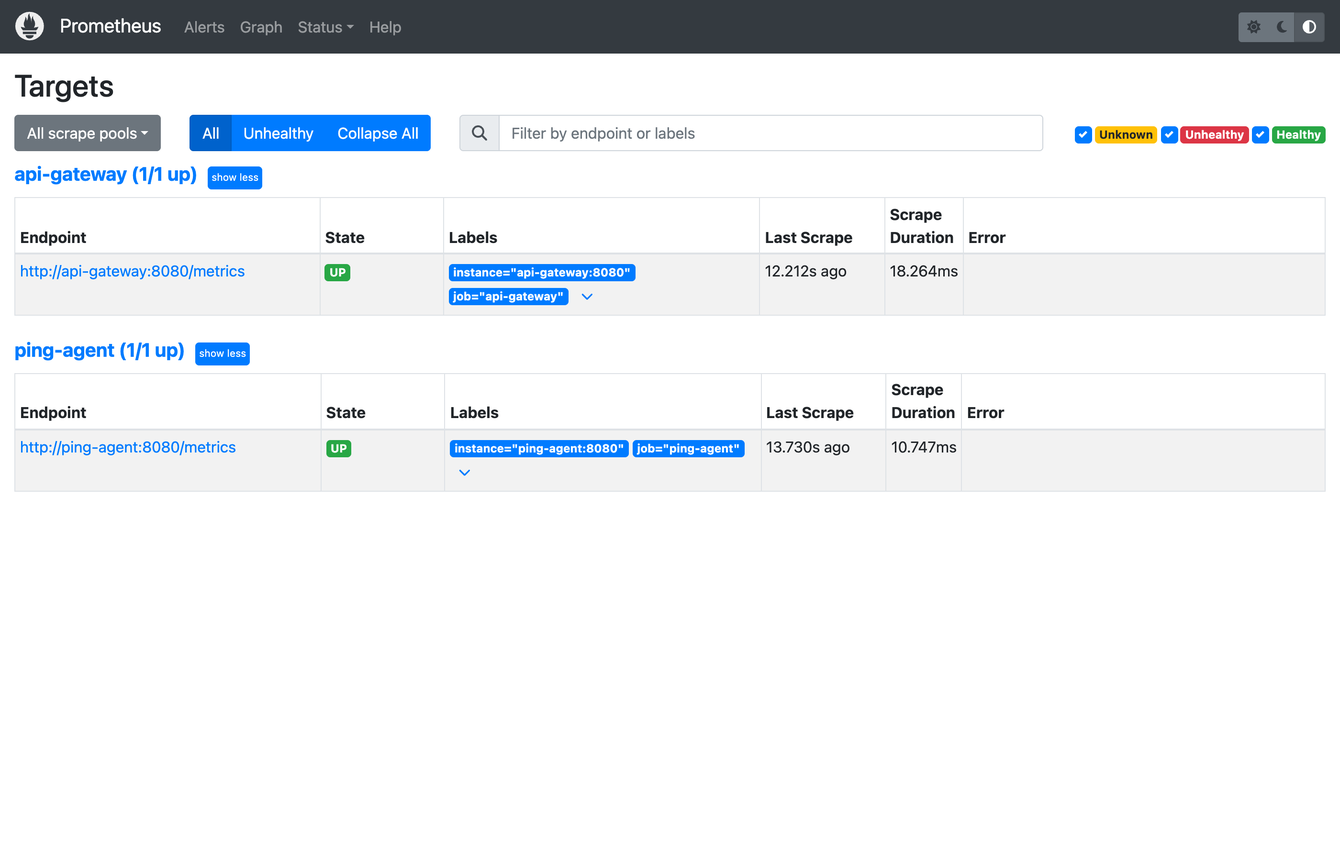
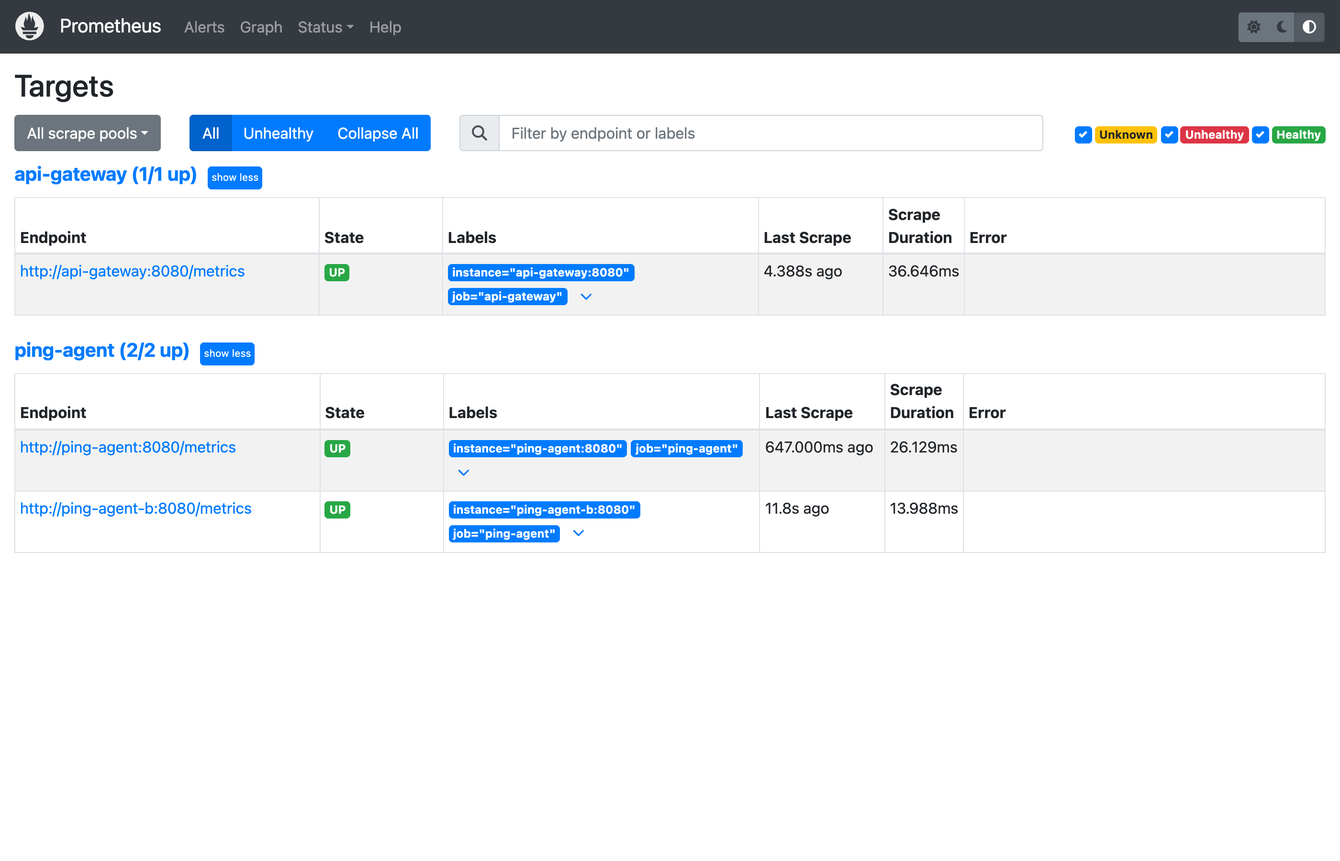
docs: record verified scenarios and recapture screenshots
Each reliability scenario now says what was observed on the two-region
demo stack and which rule or unit test pins it, including the error
budget burn from the flapping target, the regional failure that never
pages, maintenance windows and the heartbeat. The proof checklist lists
what was verified and how.

Screenshots were recaptured from the demo stack after an hour of data.
The repository overview now lists only files git publishes.

diff --git a/docs/RELIABILITY_SCENARIOS.md b/docs/RELIABILITY_SCENARIOS.md
@@ -1,6 +1,6 @@
 # Reliability Scenarios
 
-The demo overlay starts targets in every state at once:
+The demo overlay starts targets in every state at once, checked by two agents labelled as regions `lab-a` and `lab-b`:
 
 ```bash
 docker compose -f docker-compose.yml -f docker-compose.demo.yml up -d --build
@@ -8,26 +8,38 @@ docker compose -f docker-compose.yml -f docker-compose.demo.yml up -d --build
 
 | Target | Behaviour |
 |---|---|
-| `https://example.com` | real HTTPS site |
-| `http://demo-targets:8080/slow` | answers in 0.6–1.4s |
-| `http://demo-targets:8080/flaky` | `503` about 40% of the time |
-| `http://demo-targets:8080/down` | always `503` |
-| `http://demo-targets:9` | nothing listening: connection refused |
+| Example (HTTPS) `https://example.com` | real HTTPS site, with certificate and domain expiry |
+| Health API `/health` | `200` with `{"status":"ok"}`, which the check requires |
+| Slow page `/slow` | answers in 1.2–1.8s; the demo calls anything over 1s slow |
+| Flaky page `/flaky` | `503` for about 40% of requests, at random |
+| Flapping page `/flapping` | `503` for the first 30s of every 75s, by the clock, for every region |
+| Regional outage `/regional` | `503` for `lab-b` only |
+| Wrong content `/wrong-content` | `200`, but a maintenance page instead of the expected text |
+| Broken page `/down` | always `503` |
+| Nothing listening `http://demo-targets:9` | connection refused |
+| Demo TCP port `tcp://demo-targets:8080` | TCP check |
+| example.com DNS `dns://example.com/A` | DNS check |
 
-The helper is `scripts/reliability/demo_targets.py` (standard library only).
+The helper is `scripts/reliability/demo_targets.py` (standard library only). It also stands in for your notification channels: the demo Alertmanager config sends every receiver to it, so this shows exactly what would have reached you:
+
+```bash
+docker compose logs -f demo-targets
+```
+
+Alert behaviour in every scenario below is also pinned by `promtool` unit tests in `config/alert.rules.test.yml`, which CI runs.
 
 ## Healthy endpoint
 
-- state `up`, reason `ok`, latency and DNS/TCP/TLS phases recorded, certificate expiry known
-- `TargetDown` does not fire
+- state `up`, reason `ok`, latency and DNS/TCP/TLS phases recorded, certificate and domain expiry known
+- no alert fires
 
-Verified with the demo overlay: `example.com` reported `up`, HTTP `206` (the agent asks for a single byte), and about 74 days of certificate left.
+Verified with the demo overlay: `example.com` reported `up`, HTTP `206` (the agent asks for a single byte), about 74 days of certificate and 304 days of domain registration left.
 
 ## Down endpoint
 
 - retries run first, then the check counts as failed
 - the API says **why**: `http_5xx` with `http_status: 503`, or `connection_refused` with `latency_ms: null` (no response, no fake fast latency)
-- `TargetDown` fires after one minute, with the reason in its description
+- `TargetDown` fires after one minute once a majority of regions agree, with the reason in its description, and goes to the `page` receiver
 - the outage appears in `/outages` as `ongoing`
 
 Replay (swaps the targets for a dead port):
@@ -36,14 +48,26 @@ Replay (swaps the targets for a dead port):
 ./scripts/reliability/down-target-demo.sh
 ```
 
-Verified with the demo overlay: both down targets were classified correctly, and `TargetDown` fired about a minute after the first failed check.
+Verified with the demo overlay: both down targets were classified correctly, `TargetDown` fired about a minute after the first failed check, and the `page` notification showed up in the demo receiver's log.
+
+## Wrong content
+
+A server that answers `200` with the wrong page, such as a maintenance page, a login wall or an error rendered with a success code, is down from the user's side.
+
+- `expect.body_contains` fails the check with reason `body_mismatch`, keeping `http_status: 200`
+- `TargetDown` fires like any other outage
+
+Verified with the demo overlay: "Wrong content" is `down`, `body_mismatch`, HTTP 200.
 
 ## Slow endpoint
 
-- the target stays `up` while latency rises
+- the target stays `up` and `slow` turns `true` once most regions see it over its `degraded_after`; the overall status becomes `degraded`
+- `TargetSlow` fires after 5 minutes of it, as a warning
 - p95 moves on the status page and in Grafana; the "Where the latest check's time went" panel shows the time is server-side, not network
 
-The latency histogram buckets are dense between 0.1s and 3s. With Prometheus' default buckets, this endpoint's p95 read 2.4s although no response took longer than 1.4s. The estimate was interpolated across the empty 1–2.5s bucket.
+Verified with the demo overlay: "Slow page" `up` and slow at about 1.6s; `TargetSlow` fired.
+
+The latency histogram buckets are dense between 0.1s and 3s. With Prometheus' default buckets, this endpoint's p95 read 2.4s although no response took longer than 1.8s, because the estimate was interpolated across the empty 1–2.5s bucket.
 
 ## Transient failure
 
@@ -56,20 +80,64 @@ Replay (one `503`, then healthy):
 ./scripts/reliability/transient-target-demo.sh
 ```
 
-## Intermittent failure
+## Intermittent failure (random)
 
-- `/flaky` fails some checks outright (all three attempts hit a `503`) but never for a full minute, so `TargetDown` never fires
-- `TargetUnreliable` fires when the target is up less than 90% of 15 minutes *and* changed state more than twice; one clean outage that recovers does not leave this warning behind
-- Alertmanager suppresses `TargetUnreliable` while `TargetDown` fires for the same target
+- retries absorb most of `/flaky`'s failures; about one check in sixteen fails all three attempts
+- those failures are independent per region, so a majority rarely agrees and the target's quorum availability stays near 100%: the failures users hit are too short and scattered to show up as downtime from two vantage points
+- the retries are visible: "Flaky page" keeps climbing in "Retries per hour" while staying up, and its raw availability across both regions on the status page is about 92%
 
-Pinned by the "flapping target" and "one clean outage" cases in `config/alert.rules.test.yml`.
+## Intermittent failure (flapping): error budget burn
+
+A target that fails every other check never stays down for a full minute, so `TargetDown` never fires, yet users see constant errors. This is what the error-budget alerts are for.
+
+- `/flapping` fails two checks in five from every region, never two in a row; the majority verdict is down for about a fifth of the time, in stretches of 30s at most
+- `TargetDown` stays quiet
+- `ErrorBudgetBurnFast` fires (critical, `page`) once the last hour and the last 5 minutes both spend the budget at more than 14.4x the sustainable rate; on a fresh install that takes a few minutes, because downtime is divided by the whole hour
+- `/slo` and the status page show the budget draining
+
+Verified with the demo overlay: `ErrorBudgetBurnFast` fired about 4.5 minutes after `/flapping` started failing (majority verdict down 17% of the last 6 minutes), the `page` notification reached the demo receiver, and `TargetDown` never fired. Pinned by the "flapping target" case in the rule tests.
+
+## Failure from one region
+
+- `/regional` fails only for `lab-b`. One region of two is not a majority, so the target stays `up`, with `regions_failing: 1`, and the status page shows "failing from lab-b"
+- `TargetRegionalFailure` fires after 5 minutes, as a warning, not a page
+- with both regions failing it becomes `TargetDown`; with three regions, two failing is down and one failing is regional
+
+Verified with the demo overlay: the target stayed `up` for the whole hour and `/outages` lists nothing for it. That check caught a bug: history and outages fell back to raw per-region data for any 15-second step that happened to miss a majority sample, which turned this target into a string of false 15-second outages. The fallback now applies only where the recording rules have produced nothing for 5 minutes, and votes by majority too. Pinned by the two-region and three-region cases in the rule tests and by `test_uses_the_quorum_series_with_a_fallback`.
+
+## A young install
+
+Error-budget math on a ten-minute-old install is dangerous: two failed checks out of twenty-seven look like a 74x burn if you divide by what was observed. The error ratios divide observed downtime by the whole window instead, so missing data counts as unknown rather than as failure.
+
+Pinned by the "young target, first blip" case in the rule tests.
+
+## Planned maintenance
+
+```bash
+./scripts/maintenance.py start http://demo-targets:8080/down --duration 45m --comment "Replacing the disk"
+```
+
+- Alertmanager silences the target's alerts: Prometheus still evaluates `TargetDown`, but nothing is sent
+- the status page shows the window, sets the target aside from the overall status and summary, and keeps its own state truthful
+- upcoming windows (`--at`) are announced before they start
+- downtime during the window still counts against the error budget
+
+Verified with the demo overlay: `TargetDown` for "Broken page" stayed `firing` in Prometheus, appeared as suppressed in Alertmanager, no notification reached the demo receiver, and the status page showed "Replacing the disk" with the target set aside.
 
 ## Agent restart
 
 - the agent's in-process state (lifetime counts, percentiles, `state_since`) restarts; Prometheus history does not
-- `TargetDown` keeps firing across the restart instead of resolving and paging again a minute later
+- `TargetDown` keeps firing across the restart instead of resolving and paging again a minute later: the recording rules bridge a 2-minute gap
 
-Verified live: alerts stayed firing through `docker compose restart ping-agent`. Pinned by the "agent restart" case in the rule tests.
+Verified live: alerts stayed firing through `docker compose restart ping-agent ping-agent-b`. Pinned by the "agent restart" case in the rule tests.
+
+## One region lost
+
+- `PingAgentDown` fires for that agent, as a warning
+- the remaining regions keep voting: once the lost region's data is 2 minutes old, it drops out of the count rather than being counted as up or down
+- `/status` shows the agent as unreachable in `monitor.agents` and still answers
+
+Pinned by the "one of two agents down" case in the rule tests, and by `test_one_agent_down_still_answers` and `test_stale_regions_do_not_vote` in the gateway tests.
 
 ## Agent stuck or overloaded
 
@@ -78,18 +146,32 @@ Verified live: alerts stayed firing through `docker compose restart ping-agent`.
 
 Pinned by the "stale" case in the rule tests and by `test_stale_data_is_unknown_not_up` in the gateway tests.
 
-## Agent down
+## Every agent down
 
 - `/status` answers `502` with `ping-agent is unreachable`; the status page keeps the last data, dims it, and says it could not refresh
-- `PingAgentDown` fires; without it, a dead monitor would look like silence
+- `AllPingAgentsDown` fires (critical); per-agent alerts are muted so it says everything in one page
 
-## Prometheus unavailable
+Pinned by the "losing the only agent" case in the rule tests and by `test_status_when_every_agent_is_unreachable`.
 
-- `/status` keeps working: it reads the agent directly
-- `/history` and `/outages` answer `502`; the status page shows "History unavailable" and falls back to the agent's lifetime numbers, labelled as such
-- `/healthz` stays separate from both dependencies
+## Prometheus or Alertmanager down, or the whole machine
+
+- `/status` keeps working without Prometheus: it reads the agents directly
+- `/history`, `/outages` and `/slo` answer `502`; the status page shows "History unavailable" and falls back to the agents' lifetime numbers, labelled as such
+- without Alertmanager, `/status` still answers, with `monitor.alertmanager: "unreachable"` and no maintenance windows
+- nothing inside the stack can report its own death, so the `Watchdog` heartbeat stops reaching your external dead man's switch, and that service alerts you (see [ALERTING.md](ALERTING.md#heartbeat))
+
+Pinned by the "watchdog" case in the rule tests and by `test_status_survives_alertmanager_outage`; the demo receiver logs a heartbeat every minute.
+
+## Certificates and domains
+
+- `CertificateExpiringSoon` fires 14 days before a certificate expires, `DomainExpiringSoon` 30 days before a domain registration does
+- an expired or otherwise rejected certificate fails the check with reason `tls`, and its expiry is still read and reported (negative days)
+- a failed RDAP lookup is retried with backoff from 5 minutes, so a network blip at startup does not leave the expiry unknown for half a day
+
+Pinned by the certificate and domain cases in the rule tests.
 
 ## Startup
 
 - before the first check, targets are `unknown` / `pending` and the overall status is `unknown`, not `degraded`
-- the gateway's target list comes from the agent, so a target configured in one place and not the other cannot be reported as down
+- the gateway's target list comes from the agents, so a target configured in one place and not the other cannot be reported as down
+- a broken targets file stops the agent with every problem listed, rather than starting with fewer checks than you think

diff --git a/docs/PORTFOLIO_PROOF_CHECKLIST.md b/docs/PORTFOLIO_PROOF_CHECKLIST.md
@@ -4,30 +4,37 @@ Use this table to see which repo claims have command output, screenshots, or bot
 
 | Proof area | Status | Evidence | Notes |
 |---|---|---|---|
-| Docker Compose stack | Verified | `./scripts/verify-local.sh`, `docker compose ps`, `docs/screenshots/02-docker-compose-stack.png` | Local stack starts through Docker Compose |
+| Docker Compose stack | Verified | `./scripts/verify-local.sh`, `docker compose ps`, `docs/screenshots/02-docker-compose-stack.png` | Local stack starts through Docker Compose; the demo overlay adds a second agent and the demo targets |
 | API health endpoint | Verified | `curl /healthz`, `docs/screenshots/03-api-healthz.png` | API host port follows `.env` when overridden |
-| Status API | Verified | `curl /status`, `docs/screenshots/04-api-status-response.png` | Shows target state, latency, and availability |
-| Prometheus scrape targets | Verified | Prometheus targets page, `docs/screenshots/05-prometheus-targets.png` | `api-gateway` and `ping-agent` are up |
-| Prometheus metrics query | Verified | Prometheus graph query, `docs/screenshots/06-prometheus-metrics.png` | Uses the real `ping_up` metric |
-| Grafana dashboard | Verified | `docs/screenshots/07-grafana-dashboard.png` | Captured from the running Docker Compose stack |
-| Alertmanager path | Verified | `docs/screenshots/08-alertmanager.png`, `docs/PHASE_0_VERIFICATION.md` | No real outbound credentials are configured |
+| Status API | Verified | `curl /status`, `docs/screenshots/04-api-status-response.png` | Majority state, reason, slowness, per-region verdicts and maintenance windows |
+| Prometheus scrape targets | Verified | Prometheus targets page, `docs/screenshots/05-prometheus-targets.png` | `api-gateway` and both agents (`lab-a`, `lab-b`) are up |
+| Prometheus metrics query | Verified | `ping_last_result == 1`, `docs/screenshots/06-prometheus-metrics.png` | Each region's latest result and its reason |
+| Grafana dashboard | Verified | `docs/screenshots/07-grafana-dashboard.png` | Captured from the demo stack after an hour |
+| Alertmanager routing | Verified | `docs/screenshots/08-alertmanager.png`, `amtool config routes test` | Critical alerts go to `page`, warnings to `notify`, `Watchdog` to `heartbeat`; a maintenance silence mutes one `TargetDown` |
 | Helm rendering | Verified | `helm lint ./charts/iyup`, `helm template iyup ./charts/iyup`, `docs/screenshots/09-helm-template.png` | Render check only |
-| Local verification script | Verified | `./scripts/verify-local.sh`, `docs/screenshots/10-local-verification.png` | Repeatable local verification path |
-| Down target replay | Verified | `./scripts/reliability/down-target-demo.sh` | Confirms that a dead target becomes down in the API status |
-| Transient retry replay | Verified | `./scripts/reliability/transient-target-demo.sh` | Confirms one transient `503` does not leave a failure signal |
-| Alert rules behave as intended | Verified | `promtool test rules config/alert.rules.test.yml` (CI job `monitoring-config`) | Covers hard-down, flapping, one clean outage, agent restart, stale checks, agent/API down, certificate expiry |
-| TargetDown fires on a real outage | Verified | demo overlay; Prometheus `/api/v1/alerts` | Fired about a minute after the first failed check, with the failure reason in the description |
-| TargetDown survives an agent restart | Verified | `docker compose restart ping-agent` while alerts were firing | Stayed firing through the restart; the previous rule resolved and re-paged |
-| Inhibition | Verified | Alertmanager `/api/v2/alerts` | `TargetUnreliable` was `suppressed` while `TargetDown` fired for the same target |
-| Old rule could not fire reliably | Verified | isolated stack on the previous commit, dead target at the default 30s interval | `increase(ping_failure_total[1m])` alternated 2.67 / 1.33 against a `> 2` threshold |
-| Status page | Verified | `http://localhost:${API_GATEWAY_PORT}/`, `docs/screenshots/11-status-page.png` | Checked in light and dark mode, at 375px and desktop width, with keyboard navigation of the uptime bars |
-| Status API states and reasons | Verified | `curl /status` with the demo overlay | `http_5xx` (503), `connection_refused` with null latency, certificate days, retries |
-| History and outages endpoints | Verified | `curl /history`, `curl /outages` with the demo overlay | A target down for 35 minutes across four agent restarts is one ongoing outage; the flaky target's 30s outages stay separate |
-| Dashboard queries | Verified | `python3 scripts/check_dashboard_queries.py` against the demo stack | 31 queries returned data, 0 errors |
-| Dashboard rendering | Verified | `docs/screenshots/07-grafana-dashboard.png` | Captured from the demo stack |
-| Helm Alertmanager config | Verified | `helm template` output checked with `amtool check-config` and `amtool config routes test` | With email and Slack set, a `TargetDown` alert reaches `alert-log`, `email` and `slack` |
+| Local verification script | Verified | `./scripts/verify-local.sh`, `docs/screenshots/10-local-verification.png` | 18 checks, including recording rules, `/slo`, and the heartbeat reaching Alertmanager; passed on three consecutive cold starts |
+| Status page | Verified | `http://localhost:${API_GATEWAY_PORT}/`, `docs/screenshots/11-status-page.png` | Checked in light and dark mode, at 375px and desktop width, with no horizontal overflow |
+| Down target replay | Verified | `./scripts/reliability/down-target-demo.sh` | A dead target becomes `down` with `connection_refused` and no latency |
+| Transient retry replay | Verified | `./scripts/reliability/transient-target-demo.sh` | One transient `503` is absorbed by a retry and still counted |
+| Alert rules behave as intended | Verified | `promtool test rules config/alert.rules.test.yml` (CI job `monitoring-config`) | 14 scenarios: hard down, agent restart, two and three regions, flapping budget burn, one clean outage, young install, slow, stale, agents and API down, certificate and domain expiry, watchdog |
+| Checks as code | Verified | `go run . validate` on every file in `config/targets/` (CI job `go`) | Unknown fields, missing variables and duplicates are rejected with every problem listed |
+| Region quorum | Verified | demo overlay, `/status` and Prometheus | A target failing only from `lab-b` stays `up` with `regions_failing: 1`, raises `TargetRegionalFailure` (warning) and has no outages |
+| Error-budget burn | Verified | demo overlay, `/flapping` target | `ErrorBudgetBurnFast` fired about 4.5 minutes after the target started failing two checks in five, the page reached the demo receiver, and `TargetDown` never fired |
+| No page from a young install | Verified | rule test "a young target's first blip"; live stack | A 30-second blip ten minutes after install paged with the first version of the burn rules; error ratios now divide by the whole window |
+| Wrong content | Verified | demo overlay | A `200` with the wrong page is `down` with `body_mismatch` |
+| Slow target | Verified | demo overlay | `up` and slow at about 1.6s against a 1s threshold; `TargetSlow` fired |
+| Maintenance windows | Verified | `scripts/maintenance.py` against the demo stack | `TargetDown` kept firing in Prometheus, was silenced in Alertmanager, sent nothing, and the status page set the target aside and showed the window |
+| Heartbeat | Verified | `verify-local.sh`, demo receiver log with timestamps | `Watchdog` reaches Alertmanager within seconds of startup and the `heartbeat` receiver gets it every 60s. The log showed a 2-minute cadence at first: with `repeat_interval` equal to `group_interval`, every other tick fell just short; it is now 50s |
+| Test notification | Verified | `scripts/send-test-alert.py` against the demo stack | Arrived at the `notify` receiver, and at `page` with `--critical` |
+| Alerts survive agent restarts | Verified | rebuilding both agents while alerts fired | Every firing alert kept its start time; no false resolve was sent |
+| Domain expiry | Verified | demo overlay | `example.com` registration read over RDAP: 304 days |
+| Dashboard queries | Verified | `python3 scripts/check_dashboard_queries.py` against the demo stack | 38 queries returned data, 1 legitimately empty (no target went down in the range), 0 errors |
+| Data quality | Verified | `python3 scripts/validate_prometheus_data.py` against the demo stack | 0 errors; its only warnings are the high failure rates of the targets the demo keeps down on purpose. Counters now exist at zero from startup, so `success + failure` works for targets that never failed |
+| Helm Alertmanager config | Verified | `helm template` with every receiver set, checked with `amtool check-config` and `amtool config routes test` | Same routes as Compose: `page`, `notify`, `heartbeat` |
 | Helm alert rules | Verified | rendered ConfigMap run through `promtool test rules` | Same file as Compose, through a symlink |
-| Upgrade on an existing Grafana volume | Verified | `./scripts/verify-local.sh` against a volume from the previous version | Found and fixed a datasource uid change that crash-looped Grafana |
-| Unit tests | Verified | `go test -race ./...` (20 tests), `python -m unittest` (45 tests, Python 3.11 and 3.13) | |
+| Helm checks as code | Verified | `helm template --set-json checks=...`, rendered file run through `ping-agent validate` | |
+| Old rule could not fire reliably | Verified | isolated stack on an earlier commit, dead target at the default 30s interval | `increase(ping_failure_total[1m])` alternated 2.67 / 1.33 against a `> 2` threshold |
+| Upgrade on an existing Grafana volume | Verified | `./scripts/verify-local.sh` against a volume from an earlier version | Found and fixed a datasource uid change that crash-looped Grafana |
+| Unit tests | Verified | `go test -race ./...` (34 tests), `python -m unittest` (62 tests, Python 3.11 and 3.13) | |
 
 All screenshots were recaptured on 2026-10-13 from the current code; see [SCREENSHOT_GUIDE.md](SCREENSHOT_GUIDE.md) for how.

diff --git a/docs/SCREENSHOT_GUIDE.md b/docs/SCREENSHOT_GUIDE.md
@@ -2,7 +2,7 @@
 
 Use these commands and URLs to capture the portfolio screenshots.
 
-The current set was captured on 2026-10-13 from the Docker Compose stack with the demo overlay (`docker-compose.demo.yml`), so every state is on screen. Browser pages (`05`–`08`, `11`) are headless Chromium captures of the running services. Terminal shots (`01`–`04`, `09`, `10`) are the real output of the listed commands, run in this repo with `.env` loaded, then rendered in a terminal-window frame. `07` and `11` come from a stack that had been running for about an hour, so they show history.
+The current set was captured on 2026-10-13 from the Docker Compose stack with the demo overlay (`docker-compose.demo.yml`), so every state is on screen: two agents labelled as regions, a maintenance window, a regional failure, a slow target, and an error-budget burn. Browser pages (`05`–`08`, `11`) are headless Chromium captures of the running services. Terminal shots (`01`–`04`, `09`, `10`) are the real output of the listed commands, rendered in a terminal-window frame. `07` and `11` come from a stack that had been running for about an hour, so they show history. The demo stack ran on non-default host ports, set through the variables below; `10` ran against a second stack on the default ports with Grafana moved to 23001, because port 3000 was taken on the capture machine.
 
 ```bash
 set -a
@@ -17,17 +17,17 @@ ALERTMANAGER_PORT="${ALERTMANAGER_PORT:-9093}"
 
 | File | Command or URL | What it proves | Capture note |
 |---|---|---|---|
-| `docs/screenshots/01-repo-overview.png` | `tree -L 2 -I '.git\|__pycache__\|node_modules'` and `sed -n '1,18p' README.md` | repo layout and first screen | keep the title and docs list visible |
-| `docs/screenshots/02-docker-compose-stack.png` | `docker compose ps --format 'table {{.Service}}\t{{.Status}}\t{{.Ports}}'` | local stack is up | keep all services visible |
+| `docs/screenshots/01-repo-overview.png` | `git ls-files -co --exclude-standard \| tree --fromfile . -L 2` and `sed -n '1,12p' README.md` | repo layout and first screen | lists only files git would publish, not local or ignored ones |
+| `docs/screenshots/02-docker-compose-stack.png` | `docker compose -f docker-compose.yml -f docker-compose.demo.yml ps --format 'table {{.Service}}\t{{.Status}}\t{{.Ports}}'` | the stack, with two agents and the demo targets, is up | keep all services visible |
 | `docs/screenshots/03-api-healthz.png` | `curl -fsS "http://localhost:${API_GATEWAY_PORT}/healthz"` | API health endpoint works | capture the JSON body |
-| `docs/screenshots/04-api-status-response.png` | `curl -fsS "http://localhost:${API_GATEWAY_PORT}/status" \| jq '{status, summary, targets: [.targets[] \| {name, state, reason, http_status, latency_ms, last_checked_seconds_ago}]}'` | status API returns live state with reasons | keep one down target visible |
-| `docs/screenshots/05-prometheus-targets.png` | `http://localhost:${PROMETHEUS_PORT}/targets` | Prometheus is scraping the jobs | keep `api-gateway` and `ping-agent` visible |
-| `docs/screenshots/06-prometheus-metrics.png` | `http://localhost:${PROMETHEUS_PORT}/graph?g0.expr=ping_last_result&g0.tab=1` | Prometheus holds each target's latest result and its reason | show the current vector result |
-| `docs/screenshots/07-grafana-dashboard.png` | `http://localhost:${GRAFANA_PORT}/d/iyup-overview?kiosk` | Grafana dashboard is provisioned and follows the configured targets | run the demo overlay first so every state is on screen |
-| `docs/screenshots/08-alertmanager.png` | `http://localhost:${ALERTMANAGER_PORT}/#/alerts` | real alerts reach Alertmanager | with the demo overlay, `TargetDown` fires about a minute after start |
-| `docs/screenshots/09-helm-template.png` | `helm template iyup ./charts/iyup --show-only templates/grafana-deployment.yaml \| sed -n '1,30p'` | Helm rendering works | avoid secret output |
+| `docs/screenshots/04-api-status-response.png` | `curl -fsS "http://localhost:${API_GATEWAY_PORT}/status" \| jq '{status, summary, maintenance: [...]}'`, then one line per target with each region's verdict (full commands are in the shot) | the status API returns majority state, reasons, slowness, regions and maintenance | keep a down, a slow and a regional target visible |
+| `docs/screenshots/05-prometheus-targets.png` | `http://localhost:${PROMETHEUS_PORT}/targets` | Prometheus scrapes the gateway and both agents | |
+| `docs/screenshots/06-prometheus-metrics.png` | `http://localhost:${PROMETHEUS_PORT}/graph?g0.expr=ping_last_result%20%3D%3D%201&g0.tab=1` | each region's latest result and its reason, per target | show the table view |
+| `docs/screenshots/07-grafana-dashboard.png` | `http://localhost:${GRAFANA_PORT}/d/iyup-overview?orgId=1&kiosk&from=now-1h&to=now&theme=dark` | the dashboard is provisioned and follows the configured targets | run the demo overlay for an hour first |
+| `docs/screenshots/08-alertmanager.png` | `http://localhost:${ALERTMANAGER_PORT}/#/alerts?silenced=true&inhibited=true`, groups expanded | alerts reach Alertmanager and are routed to `page`, `notify` and `heartbeat`; the maintenance window silences one | start a maintenance window first (`scripts/maintenance.py`) |
+| `docs/screenshots/09-helm-template.png` | `helm lint ./charts/iyup` and `helm template ... --set-json 'checks=...' --show-only templates/ping-agent-targets-configmap.yaml` | the chart lints and renders checks as code | no secrets in the output |
 | `docs/screenshots/10-local-verification.png` | `./scripts/verify-local.sh` | local verification is repeatable | keep the full PASS list visible |
-| `docs/screenshots/11-status-page.png` | `http://localhost:${API_GATEWAY_PORT}/?window=1h` | the status page explains state, history and outages | run the demo overlay first; a 1h window fills fastest |
+| `docs/screenshots/11-status-page.png` | `http://localhost:${API_GATEWAY_PORT}/?window=1h` | the status page explains state, regions, maintenance, history and outages | run the demo overlay first; a 1h window fills fastest |
 
 The two browser captures can be taken headlessly with any Chromium browser (shown with Edge; swap in Chrome's path if you prefer):
 
